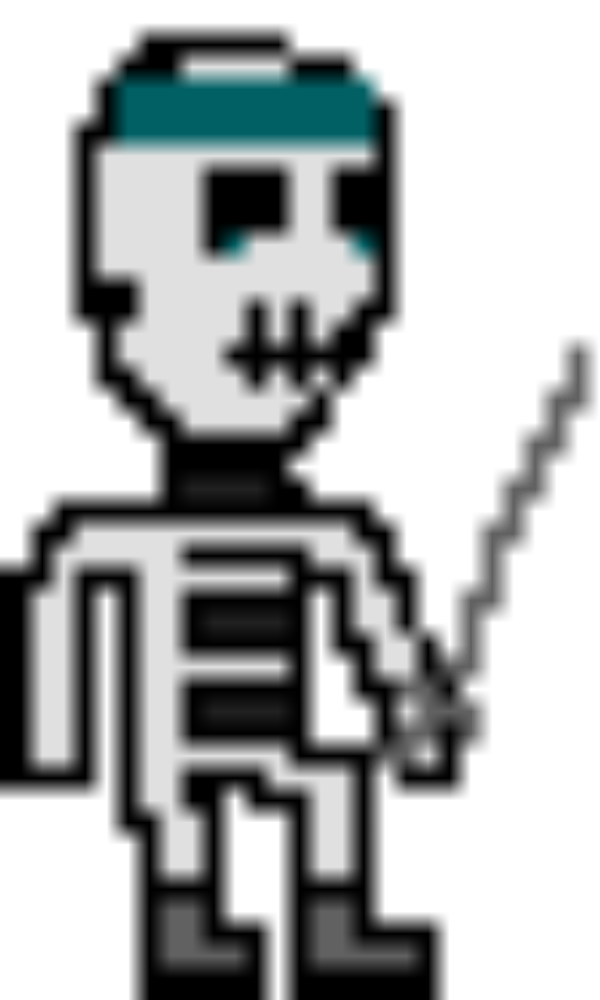
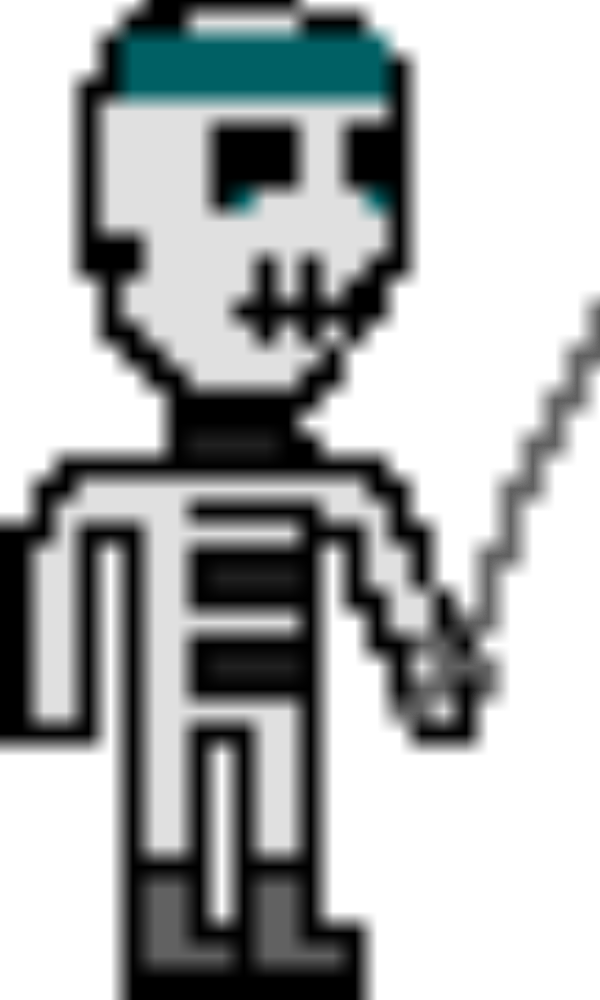
Idil new (#45)
* background music is added

* background music adjusted

* how to play screen, music on/off option and  its sprite is added, pause fonts adjusted

* mute button sprites fixed

* small adjustments about music

* skeleton sprites added, more states will be added

* skeleton can walk

* added potion drinking sound

* skeleton new sprites

* skeleton

diff --git a/core/src/com/cornichon/views/textures/Textures.java b/core/src/com/cornichon/views/textures/Textures.java
@@ -24,7 +24,7 @@ public class Textures {
 
   public static final Texture SKELETON_IDLE = new Texture(Gdx.files.internal("images/skeleton_idle.png"));
   public static final Texture SKELETON_LEFT1 = new Texture(Gdx.files.internal("images/SKELETON_walking.png"));
-  public static final Texture SKELETON_LEFT2 = new Texture(Gdx.files.internal("images/SKELETON_walking2.png"));
+  public static final Texture SKELETON_LEFT2 = new Texture(Gdx.files.internal("images/skeleton_left2.png"));
   public static final Texture SKELETON_RIGHT1 = new Texture(Gdx.files.internal("images/skeleton_right1.png"));
   public static final Texture SKELETON_RIGHT2 = new Texture(Gdx.files.internal("images/skeleton_right2.png"));
 
